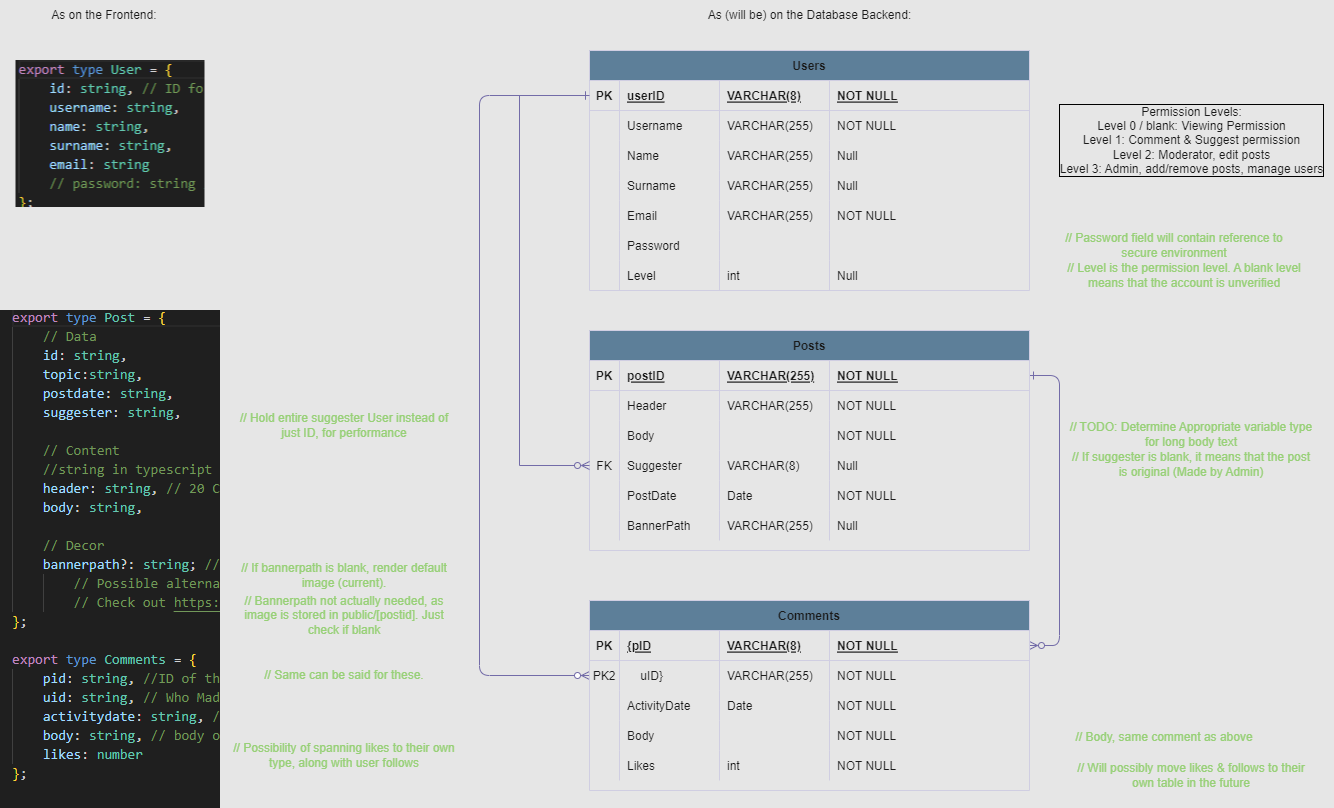
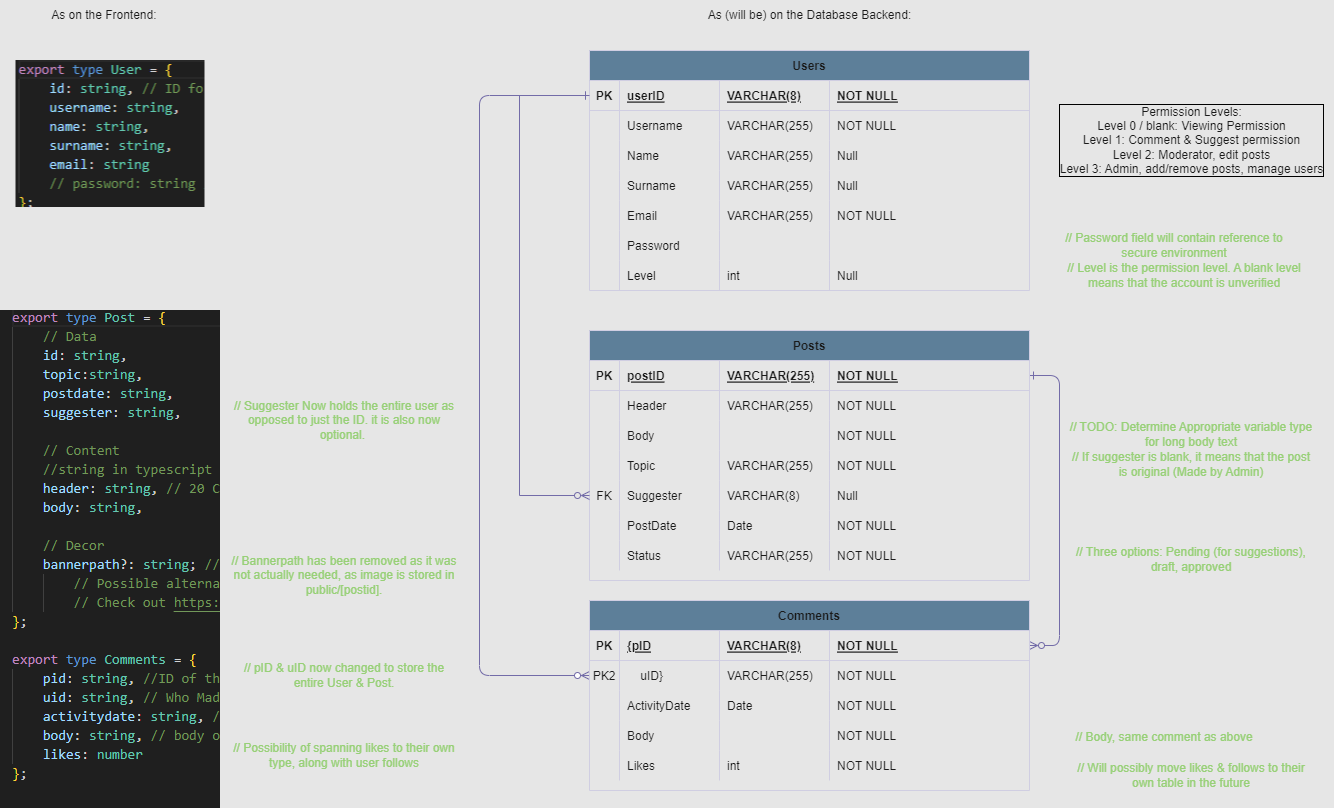
Expanded post API & fixed refreshing breaking app.

diff --git a/src/Components/Posts/UserInfo.tsx b/src/Components/Posts/UserInfo.tsx
@@ -5,7 +5,6 @@ import type { User } from "@/Declarations/UserTypes";
 import { getUser, findRecentComment, timeMessage } from "@/Utilities/datatools/dataitools";
 import { useContext } from "react";
 import commentsContext from "@/Context/datawrappers/commentswrapper";
-import userContext from "@/Context/datawrappers/userwrapper";
 
 interface UserProps{
     workingPost: Post;
@@ -14,7 +13,6 @@ interface UserProps{
 
 export default function UserInfo({workingPost: post, extrainfo = false}: UserProps){
     let arrComments: Array<Comments> = useContext(commentsContext).value;
-    let arrUsers: Array<User> = useContext(userContext).value;
 
     let postComments:Array<Comments> = [];
     for (let c of arrComments){
@@ -26,7 +24,7 @@ export default function UserInfo({workingPost: post, extrainfo = false}: UserPro
     let noReplies = postComments.length;
     if (noReplies == 0){ // If no comments on post, then there can't be a most recent post.
         return(
-            <table className={styles.tableStuff}> <tr> <td> No replies yet </td> </tr> </table>
+            <table className={styles.tableStuff}> <tbody> <tr> <td> No replies yet </td> </tr> </tbody> </table>
         )
     }  
     
@@ -36,16 +34,18 @@ export default function UserInfo({workingPost: post, extrainfo = false}: UserPro
         
         return(
             <table className={styles.tableStuff}>
-                <tr className={styles.topStuff}> 
-                    <td className={styles.leftStuff}> {noReplies} Replies </td>
-                    <td className={styles.middleStuff}></td>
-                    <td className={styles.rightStuff}> {recentUser.username} </td>
-                </tr>
-                <tr className={styles.bottomStuff}>
-                    <td className={styles.leftStuff}> {recentComment.likes} Likes </td>
-                    <td className={styles.middleStuff}></td>
-                    <td className={styles.rightStuff}> {timeMessage(recentComment.activitydate)} </td>
-                </tr>
+                <tbody> 
+                    <tr className={styles.topStuff}> 
+                        <td className={styles.leftStuff}> {noReplies} Replies </td>
+                        <td className={styles.middleStuff}></td>
+                        <td className={styles.rightStuff}> {recentUser.username} </td>
+                    </tr>
+                    <tr className={styles.bottomStuff}>
+                        <td className={styles.leftStuff}> {recentComment.likes} Likes </td>
+                        <td className={styles.middleStuff}></td>
+                        <td className={styles.rightStuff}> {timeMessage(recentComment.activitydate)} </td>
+                    </tr>
+                </tbody>
             </table>
         )
     }
@@ -58,17 +58,19 @@ export default function UserInfo({workingPost: post, extrainfo = false}: UserPro
             
             return(
             <table className={styles.tableStuff}>
-                <tr>
-                    <td className={styles.leftStuff}> 
-                        <ul> 
-                            <li className={styles.topStuff}> {commentUser.username} </li>
-                            <li className={styles.bottomStuff}> {timeMessage(p.activitydate)} </li>
-                            <li className={styles.bottomStuff}> {p.likes} Likes </li>
-                        </ul>
-                    </td>
-                    <td className={styles.middleStuff}></td>
-                    <td className={styles.rightStuff}> {p.body} </td>
-                </tr>
+                <tbody>
+                    <tr>
+                        <td className={styles.leftStuff}> 
+                            <ul> 
+                                <li className={styles.topStuff}> {commentUser.username} </li>
+                                <li className={styles.bottomStuff}> {timeMessage(p.activitydate)} </li>
+                                <li className={styles.bottomStuff}> {p.likes} Likes </li>
+                            </ul>
+                        </td>
+                        <td className={styles.middleStuff}></td>
+                        <td className={styles.rightStuff}> {p.body} </td>
+                    </tr>
+                </tbody>
             </table>
             )
         })

diff --git a/src/pages/Posts/index.tsx b/src/pages/Posts/index.tsx
@@ -7,10 +7,12 @@ import MainLayout from "@/Layouts/mainlayout/mainlayout";
 import UserInfo from "@/Components/Posts/UserInfo";
 // import SearchFilter from "@/Components/SearchFilter/searchfilter";
 import type { Post } from "@/Declarations/PostTypes";
+import { useContext } from "react";
+import postContext from "@/Context/datawrappers/postwrapper";
 
 export default function AllPosts(){
     // Importing the List of Posts from the object
-    let arrPosts: Post[] = DataImporter.importPosts;
+    let arrPosts: Post[] = useContext(postContext).value;
 
     // TODO: Order Posts by Most Recent Activity
 
@@ -23,23 +25,25 @@ export default function AllPosts(){
             <br/><br/>
             <div className={styles.PostList}>
                 <table className={styles.TableStuff}>
+                    <tbody> 
                     {arrPosts.map((post) => {
-                    return( 
-                        <tr className={styles.Posts} style={{['--mycolour' as any]: '#3e4660'}}>
-                                <td className={styles.TableDatal}> 
-                                    <div className={styles.titleText}> 
-                                        <Link href = {`../Posts/${post.id}`} > {post.header} </Link>
-                                    </div> 
-                                    {/* Link to topics page */}
-                                    <p> [{post.topic}] </p>
-                                </td>
-                                <td className={styles.TableData}> Post Image / Preview </td> 
-                                <td className={styles.TableDatar}> 
-                                    <UserInfo workingPost={post}/>
-                                </td>
+                        return( 
+                        <tr className={styles.Posts} style={{['--mycolour' as any]: '#3e4660'}} key={post.id}>
+                            <td className={styles.TableDatal}> 
+                                <div className={styles.titleText}> 
+                                    <Link href = {`../Posts/${post.id}`} > {post.header} </Link>
+                                </div> 
+                                {/* Link to topics page */}
+                                <p> [{post.topic}] </p>
+                            </td>
+                            <td className={styles.TableData}> Post Image / Preview </td> 
+                            <td className={styles.TableDatar}> 
+                                <UserInfo workingPost={post}/>
+                            </td>
                         </tr>
                         );
                     })}
+                    </tbody>
                 </table>
             </div>
             </MainLayout>

diff --git a/src/Context/datawrappers/postwrapper.tsx b/src/Context/datawrappers/postwrapper.tsx
@@ -1,15 +1,14 @@
 // Stores the list of Posts. Note: Useeffect to push post updates to the database.  
 // Scope:  (sets), global(uses)
 
+import { PostData } from "@/Declarations/DBTypes";
 import { Post } from "@/Declarations/PostTypes";
 import DataImporter from "@/Utilities/dataimporter";
-import React, { useState } from "react";
+import React, { useEffect, useState } from "react";
 
-
-let initialValue = DataImporter.importPosts;
 
 const postContext = React.createContext({
-    value: initialValue,
+    value: [DataImporter.initialPost], // This value will only be used if no value is provided by the wrapper.
     changer: (newVal: Post)=>{}
 })
 
@@ -18,10 +17,48 @@ export default postContext;
 // Create context wrapper
 
 export function PostProvider(props: any){
-    const [contexState, setContexState] = useState(initialValue);
+    
+    // Fetching the Posts from api/posts
+    
+    // Temporary data until states can be used
+    const [data, setData] = useState<PostData[]>([{
+        postID: '', 
+        Header: '',
+        Body: '', 
+        Topic: '',
+        PostDate: '', 
+        Status: ''
+    }]);
+
+    // TODO: Convert to a custom hook for better single-use methodology
+    // TODO: handle updates / changes to Posts. 
+    
+    useEffect(()=>{
+        fetch("/api/posts").then(async res => await res.json()).then(json => setData(json)); // or .then(setData) assumes json is passed in automatically    
+        console.log(data);
+    }, [])
+    
+    // Convert Database format to local format:
+    let preVal: Post[] = [DataImporter.initialPost];
+    for (let dat of data){
+        if (dat.Status === 'approved'){
+            preVal = [...preVal, {id: dat.postID, topic: dat.Topic, postdate: dat.PostDate, suggester: dat.Suggester, header: dat.Header, body: dat.Body}]; 
+        }
+    }
+    let convertedData: Post[] = preVal;
+    console.log(convertedData);
+    // return(convertedData);
+    
+    // let initialValue: Post[] = DataImporter.importPosts;
+    let initialValue: Post[] = convertedData;
+    
+
+    const [contexState, setContexState] = useState<Post[]>(initialValue);
+
+    console.log('Init: ', initialValue);
 
     function changer(newVal: Post){
-        setContexState((preVal) => ({...preVal, newVal}));
+        setContexState((preVal) => ([...preVal, newVal]));
     }
 
     const contexStuff = {

diff --git a/src/pages/api/posts/index.ts b/src/pages/api/posts/index.ts
@@ -1,15 +1,37 @@
 // Next.js API route support: https://nextjs.org/docs/api-routes/introduction
+import { PostData } from '@/Declarations/DBTypes';
 import type { NextApiRequest, NextApiResponse } from 'next'
 
-type PostData = {
-  name: string
-  /* ... */
-}
-
-const dummyPosts = [
-    { 
-        name: 'John Doe' 
-    }
+const dummyPosts: PostData[] = [
+  {
+    postID: 'hello-world', 
+    Header: 'Hello World!',
+    Body: `This is my first post, Hello World! 
+    I would love for you guys to comment down below with some suggestions as to what to post next! I will have several topics in which I post, but if it doesn't quite fit in, suggest a new topic as well!`,
+    Topic: 'Misc',
+    PostDate: '2022-03-25',
+    Suggester: 'AA000000',
+    Status: 'approved'
+  },
+  {
+    postID: 'my-first-project-car', 
+    Header: 'My First Project Car',
+    Body: `Ah Yes, my first project car. I remember it like it was yesterday... probably because it was.  
+    I have this old RV i am working on. Got it from my grandfather. It was subject to a bit of neglect over the years, but now that i will have it in my name soon, it is up to me to fix it up. Post down below any tips or comments you may have, this will be quite the journey for all of us. `,
+    Topic: 'Cars',
+    PostDate: '2022-10-02',
+    Suggester: 'AA000000',
+    Status: 'approved'
+  },
+  {
+    postID: 'getting-a-bike-drivers-worth-it', 
+    Header: 'Getting a Bike Driver`s: Worth it?',
+    Body: `After thinking i was finally done with the trudge of getting a driver's licence, it was now suggested to me that a Biker's licence is just as essential? I would love to hear your thoughts and experience on this. `,
+    Topic: 'Cars',
+    PostDate: '2021-12-05',
+    Suggester: 'AA000000',
+    Status: 'approved'
+  }
 ];
 
 export default function handler(

diff --git a/src/Components/account/checkLogin.tsx b/src/Components/account/checkLogin.tsx
@@ -1,4 +1,4 @@
-import { useContext } from "react";
+import { useContext, useEffect } from "react";
 import loginContext from "@/Context/loginwrapper/loginwrapper";
 import Link from "next/link";
 import refContext from "@/Context/refdirectwrapper/refdirectwrapper";
@@ -15,14 +15,16 @@ export default function CheckLogin(props: any){
 
     // Receive link of page to forward to once logged in. 
     let refContex = useContext(refContext);
-    let href = props.href; //TODO: Redirect to this href once logged in. 
-    refContex.changer(href);
+    useEffect(()=>{ 
+        let href = props.href;
+        refContex.changer(href); // React doesn't like changing states from other components, as such it must be wrapped in a useEffect. 
+    }, [])
 
     // if logged in, return props.children. else, show link to log in page (receive text for this as a prop) and forward to props.href page once logged in. 
     return(
         <>
             {contex.value && props.children}
-            {!contex.value && <p className={className} style={style}> <Link href={'/User/login'}> {label} </Link> </p>}
+            {!contex.value && <div className={className} style={style}> <Link href={'/User/login'}> {label} </Link> </div>}
         </>
     )
 }

diff --git a/src/Components/bars/toolbar.tsx b/src/Components/bars/toolbar.tsx
@@ -5,16 +5,17 @@ import Link from "next/link";
 export default function ToolBar(){
     return(
         <>
-            <p className={styles.toolbar}> <Link className={styles.lica} 
-                style={{position: 'fixed', ['--leftstyle' as any]: '0px', ['--rightstyle' as any]: '10px'}} href="/"> Home </Link></p>
+            <div className={styles.toolbar}> <Link className={styles.lica} 
+                style={{position: 'fixed', ['--leftstyle' as any]: '0px', ['--rightstyle' as any]: '10px'}} href="/"> Home </Link>
+            </div>
             
-            <p className={styles.toolbar}>
+            <div className={styles.toolbar}>
                 <CheckLogin href="/User" label="LgIn" className={styles.lica} 
                 style={{position: 'fixed', right: '0', ['--leftstyle' as any]: '10px', ['--rightstyle' as any]: '0px'}}>
                     <Link href="/User" className={styles.lica}
                     style={{position: 'fixed', right: '0', ['--leftstyle' as any]: '10px', ['--rightstyle' as any]: '0px'}}> User </Link>
                 </CheckLogin>
-            </p>
+            </div>
         </>
     )
 }

diff --git a/src/Utilities/dataimporter/postimporter.ts b/src/Utilities/dataimporter/postimporter.ts
@@ -31,28 +31,6 @@ let dummyPosts: Array<Post> = [
 
 
 function PostImporter(): Array<Post>{
-    
-    // Fetching the Posts from api/posts
-    
-    // Temporary data until states can be used
-    let data = [{}];
-    function setData(newData: any){
-        data = newData; // This is temporary, you can ignore that it is incorrect for now.
-    }
-
-    // TODO: Convert to a custom hook to use useEffect & useState 
-
-    // useEffect(()=>{
-        fetch("/api/posts").then(async res => await res.json()).then(json => setData(json)); // or .then(setData) assumes json is passed in automatically    
-        console.log(data);
-    // }, [])
-
-    // Convert Database format to local format:
-    // let convertedData: Post[] = data.map((dat) => {
-    //     return {id: dat.PostID, topic: '', postdate: '', suggester: '', header: dat.Body, body: dat.Body, bannerpath: dat.Bannerpath} 
-    // })
-    // return(convertedData);
-
     return(dummyPosts);
 }
 export default PostImporter;

diff --git a/src/Context/contextWrapper.tsx b/src/Context/contextWrapper.tsx
@@ -1,3 +1,4 @@
+import { PostProvider } from "./datawrappers/postwrapper";
 import { UserProvider } from "./datawrappers/userwrapper";
 import { LoginProvider } from "./loginwrapper/loginwrapper";
 import { RefProvider } from "./refdirectwrapper/refdirectwrapper";
@@ -8,7 +9,9 @@ export default function ContextWrapper(props: any){
             <LoginProvider>
                 <RefProvider>
                     <UserProvider>
-                        {props.children}
+                        <PostProvider>
+                            {props.children}
+                        </PostProvider>
                     </UserProvider>
                 </RefProvider>    
             </LoginProvider>

diff --git a/src/Declarations/PostTypes.ts b/src/Declarations/PostTypes.ts
@@ -3,7 +3,7 @@ export type Post = {
     id: string, 
     topic:string, 
     postdate: string,
-    suggester: string,
+    suggester?: string,
 
     // Content
     //string in typescript has maximum character length of well over 255, so it is fine for posts

diff --git a/src/Declarations/DBTypes.ts b/src/Declarations/DBTypes.ts
@@ -1,0 +1,9 @@
+export type PostData = {
+    postID: string, 
+    Header: string,
+    Body: string, 
+    Topic: string,
+    Suggester?: string, 
+    PostDate: string, 
+    Status: string
+}

diff --git a/doccumentation.md b/doccumentation.md
@@ -220,6 +220,17 @@ Fleshed out doccumentation & creating sprint subtasks.
 ### Sprint 3 - Commit 3 (feature/apiconnection)
 Set up Post API skeleton & adjusted dataimporter.postImporter
 
+### Sprint 3 - Commit 4 (feature/apiconnection)
+Added PostData type to DBTypes for posts imported from the database
+Moved API fetching from dataimporter to postWrapper (rules of hooks)
+Added postWrapper to contextWrapper
+Updated db to local post conversion logic
+Tested and it worked, until several rendering errors occured 
+Added several missing '<tbody></tbody>' to tables that were missing them
+Attempted to fix errors appearing on load, causing it to render client-side
+Fixed an error in checklogin that resulted from changing state in an external component
+Posts are still not reflecting on the posts page. Will investigate further in next commit. 
+
 
 ## Currently working on: 
 Implimenting APIs
